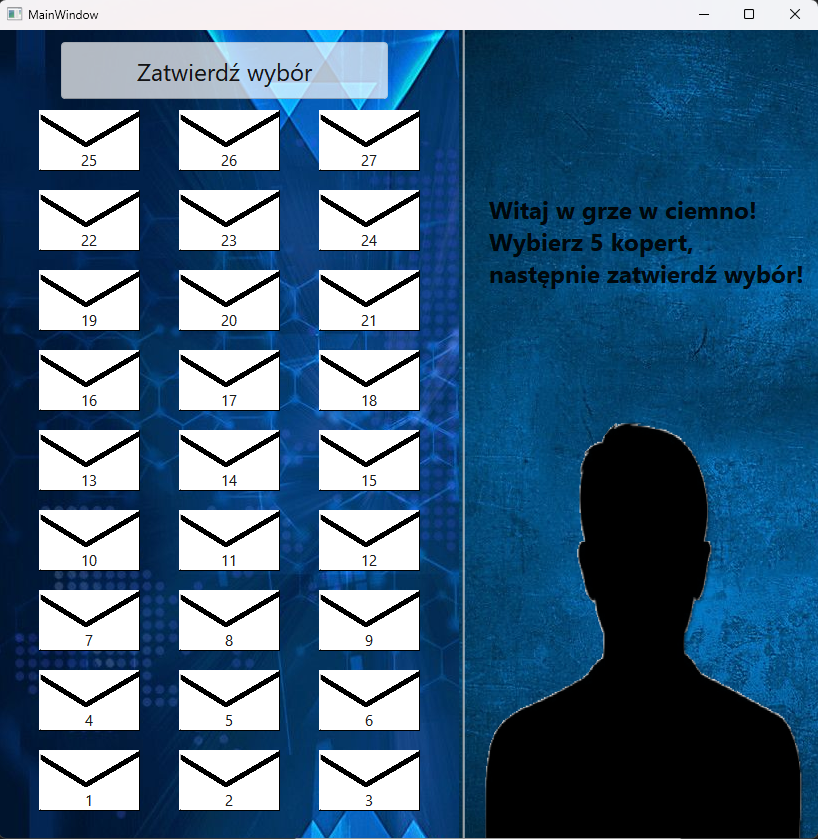
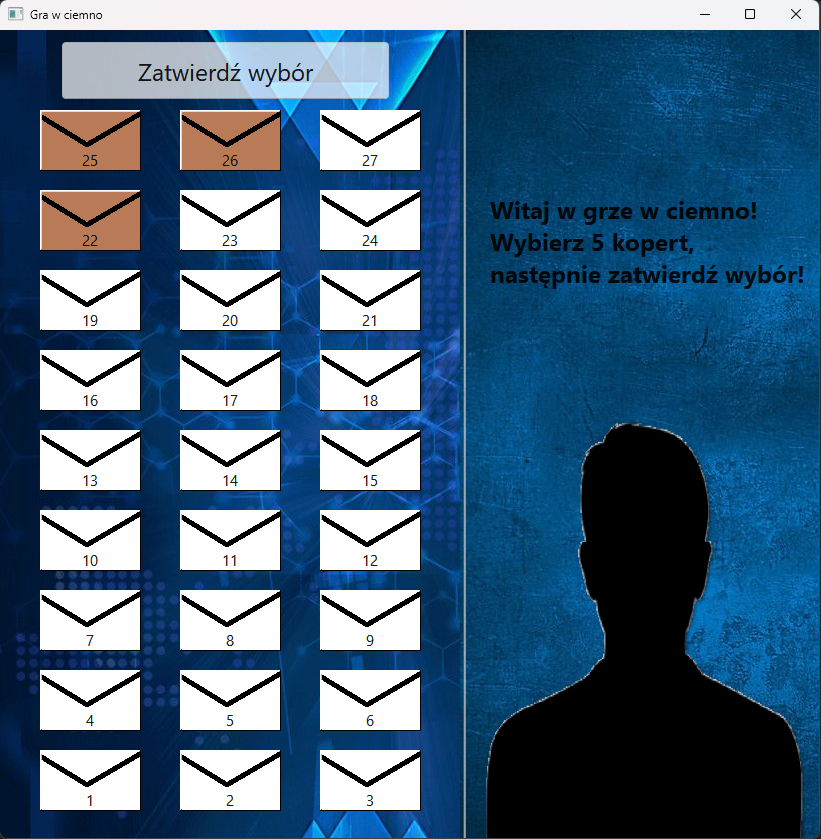
window name changed

diff --git a/main.cpp b/main.cpp
@@ -6,6 +6,8 @@ int main(int argc, char *argv[])
 {
     QApplication a(argc, argv);
     MainWindow w;
+    QString windowName = QString::fromStdString("Gra w ciemno");
+    w.setWindowTitle(windowName);
     w.show();
     return a.exec();
 }

diff --git a/README.md b/README.md
@@ -14,15 +14,11 @@
 
 ![](screenshots/2.png)
 
-## 3. End of question faze
-
-![](screenshots/4.png)
-
-## 4. Trade offers
+## 3. Trade offers
 
 ![](screenshots/5.png)
 
-## 5. Winning screen
+## 4. Winning screen
 
 ![](screenshots/6.png)
 
